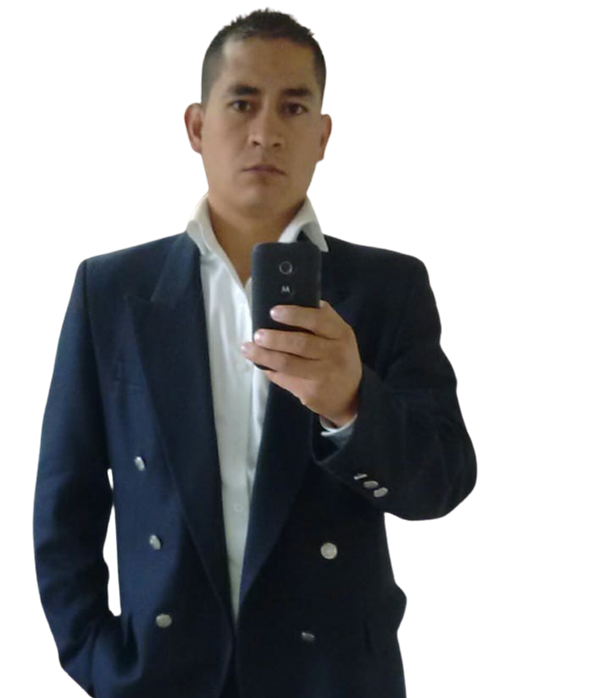
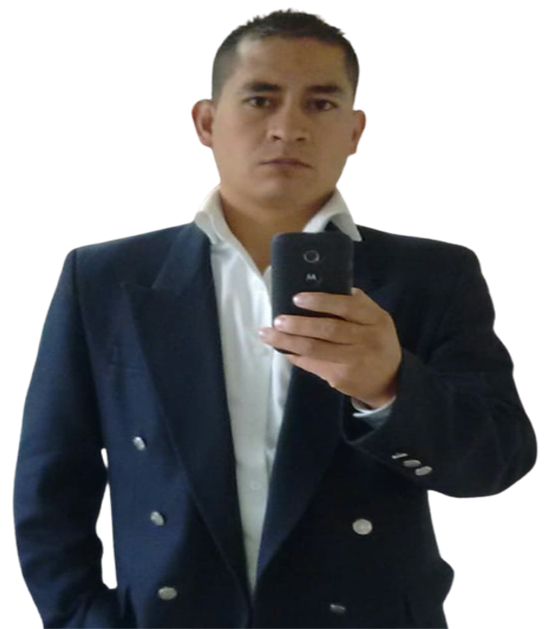
cambio de foto

diff --git a/css/styles.css b/css/styles.css
@@ -215,7 +215,7 @@ body {
    margin: 0 auto;
  }
  .container-contact img{
-   width: 5000px;
+   width: 500px;
    height: 500px;
    bottom: 0px;
    opacity: 0.4;
